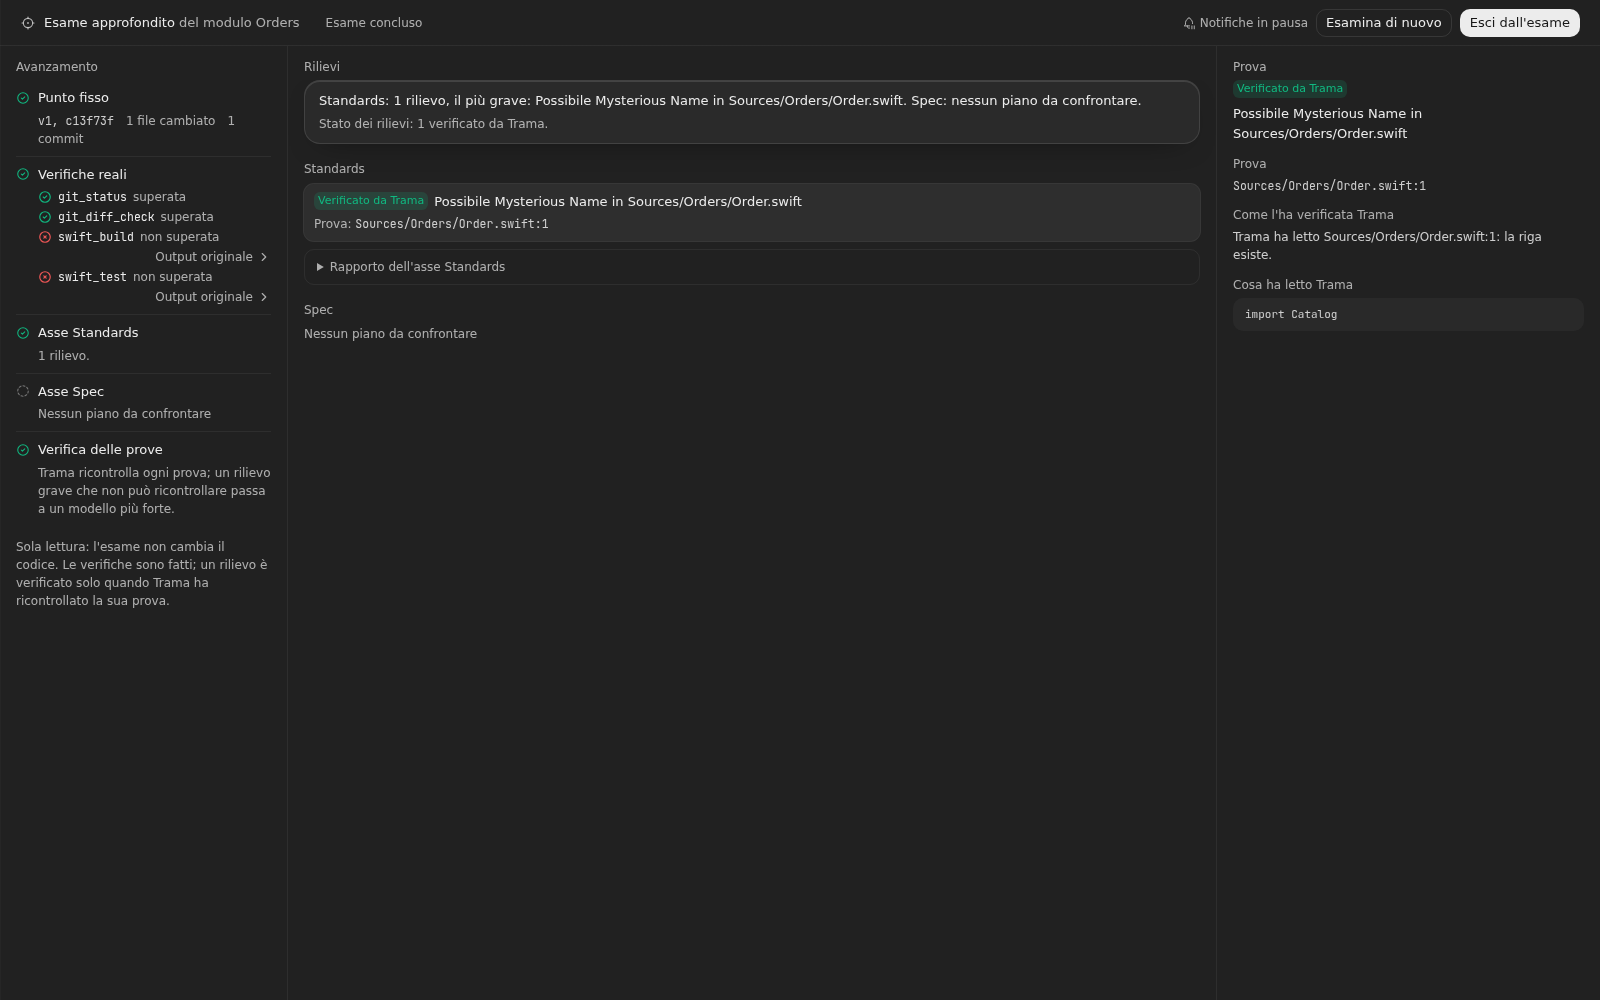
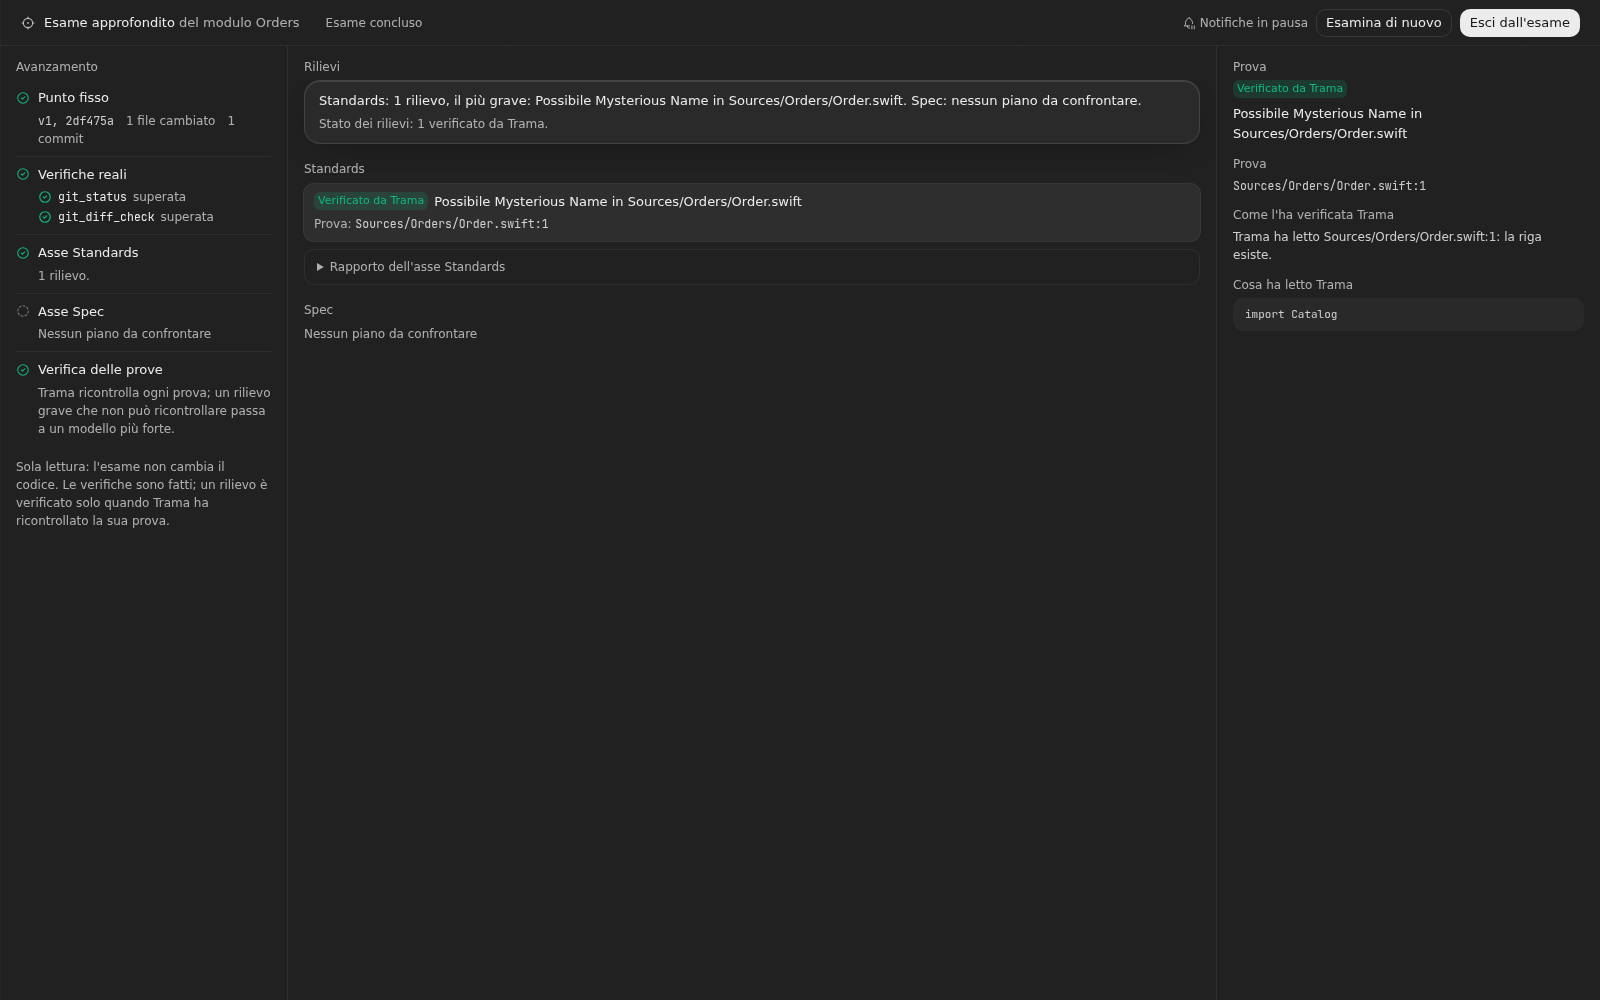
docs: refresh the focus mode screenshots on the latest main

Changed region(s): [[0.0, 0.217, 0.1875, 0.62]]

diff --git a/docs/verifiche/f03-esame-a-tutto-schermo-2026-09-28.md b/docs/verifiche/f03-esame-a-tutto-schermo-2026-09-28.md
@@ -15,7 +15,7 @@ Controllo di #127 (specifica #124) sul branch `feature/issue-127-focus-mode-full
 
 - Test: `app/src/main/core/focusScope.test.ts` (diff dal punto fisso senza file sensibili, diff e commit limitati al modulo, punto fisso inesistente, diff vuoto anche per un modulo, testo rifiutato, proposte di punto fisso), `app/src/main/core/audit.test.ts` (un esame alla volta per bersaglio, spec dalle issue citate nei commit, binding del modulo con la skill originale, nessuna frase della skill ripetuta), `app/src/main/focusAudit.integration.test.ts` (controller reale con il server di prova: errori prima dell'avvio, esame del modulo da `HEAD~1`, verifiche sul checkout, assi nella cartella del progetto, notifiche trattenute e consegnate all'uscita, un incarico autorizzato che finisce mentre l'esame è aperto).
 - ui-check: l'esame del candidato ora si apre a tutto schermo e si chiude con "Esci dall'esame"; il nuovo passo F03 apre un progetto con un tag `v1` e un commit sul modulo Orders, prova il punto fisso inesistente e il modulo senza cambiamenti, apre l'esame del modulo e controlla le tre colonne, l'uscita a destra, la prova verificata, poi l'esame dell'intero progetto. Le tre colonne restano dentro la finestra senza scorrimento orizzontale a 1600x1000, 1280x820, 1024x700 e 720x640 (la misura minima della finestra).
-- Schermate in `docs/images/f03/`, in chiaro e in scuro. "Prima" da origin/main 7e13d3f: mappa (`mappa-prima-*`), modulo (`modulo-prima-*`), esame del candidato nell'ispettore (`esame-candidato-prima-*`). "Dopo" da questo branch riallineato con origin/main 59e2a83 (passi `31a` a `31f` di ui-check): mappa e modulo con il nuovo pulsante (`mappa-dopo-*`, `modulo-dopo-*`), errori della finestra di scelta (`punto-fisso-inesistente-*`, `diff-vuoto-*`), esame del modulo a tutto schermo alle quattro misure (`esame-modulo-<misura>-*`), esame dell'intero progetto (`esame-progetto-*`), esame del candidato a tutto schermo (`esame-candidato-dopo-*`).
-- Su origin/main 59e2a83 il test `autonomousCycle.test.ts` "confirms the shared understanding within a mandate that allows planning" fallisce anche senza questo branch; qui non è stato toccato.
+- Schermate in `docs/images/f03/`, in chiaro e in scuro. "Prima" da origin/main 7e13d3f: mappa (`mappa-prima-*`), modulo (`modulo-prima-*`), esame del candidato nell'ispettore (`esame-candidato-prima-*`). "Dopo" da questo branch riallineato con origin/main d9d1e04 (passi `31a` a `31f` di ui-check): mappa e modulo con il nuovo pulsante (`mappa-dopo-*`, `modulo-dopo-*`), errori della finestra di scelta (`punto-fisso-inesistente-*`, `diff-vuoto-*`), esame del modulo a tutto schermo alle quattro misure (`esame-modulo-<misura>-*`), esame dell'intero progetto (`esame-progetto-*`), esame del candidato a tutto schermo (`esame-candidato-dopo-*`).
+- Il progetto del test F03 e quello del passo F03 di ui-check non hanno `Package.swift`: il server di prova esegue davvero i comandi delle verifiche, e su una macchina con Swift l'esame compilerebbe il pacchetto prima di aprire gli assi (causa del timeout in CI, riprodotta con un finto `swift` lento). Per questo le schermate "dopo" mostrano solo le verifiche di git.
 
 Non verificato: un'esecuzione reale di Codex. Il server di prova non è un modello e le sue risposte non sono evidenze. Le notifiche di sistema sono provate nel controller con un host di prova, non con il centro notifiche del sistema operativo.
